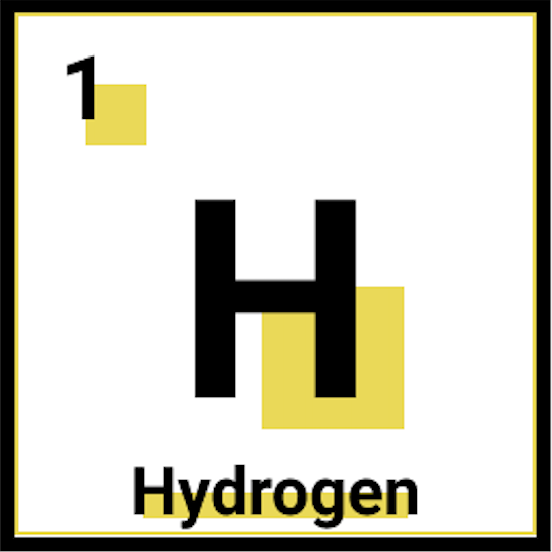
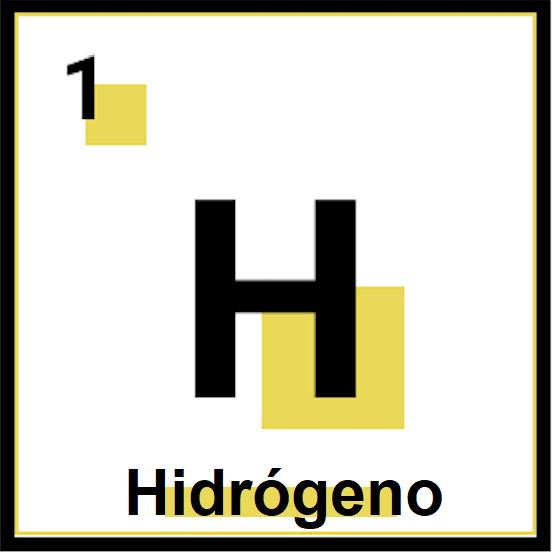
Traducción 1.0

Changed region(s): [[0.2156, 0.8315, 0.8007, 0.9855]]

diff --git a/index.html b/index.html
@@ -3,7 +3,7 @@
 
 <head>
   <meta charset="utf-8" />
-  <title>AR Chemistry</title>
+  <title>Química AR</title>
   <meta name="viewport" content="width=device-width, user-scalable=no, minimum-scale=1.0, maximum-scale=1.0" />
   <script src="https://aframe.io/releases/1.0.1/aframe.min.js"></script>
   <script src="https://rawgit.com/jeromeetienne/AR.js/master/aframe/build/aframe-ar.min.js"></script>
@@ -11,7 +11,7 @@
 </head>
 
 <body style="margin : 0px; overflow: hidden;">
-  <!-- Add detectionMode and matrixCodeType to tell AR.js to recognize barcode markers -->
+  <!-- Añadir detectionMode y matrixCodeType para indicar a AR.js que reconozca los marcadores de código de barras -->
   <a-scene id="main-scene" vr-mode-ui="enabled: false"
     arjs="sourceType: webcam; debugUIEnabled: false;      
     embedded

diff --git a/README.md b/README.md
@@ -1,1 +1,1 @@
-# PRO-C174-Teacher-Boilerplate
+# PRO-C174-Plantilla-maestra
